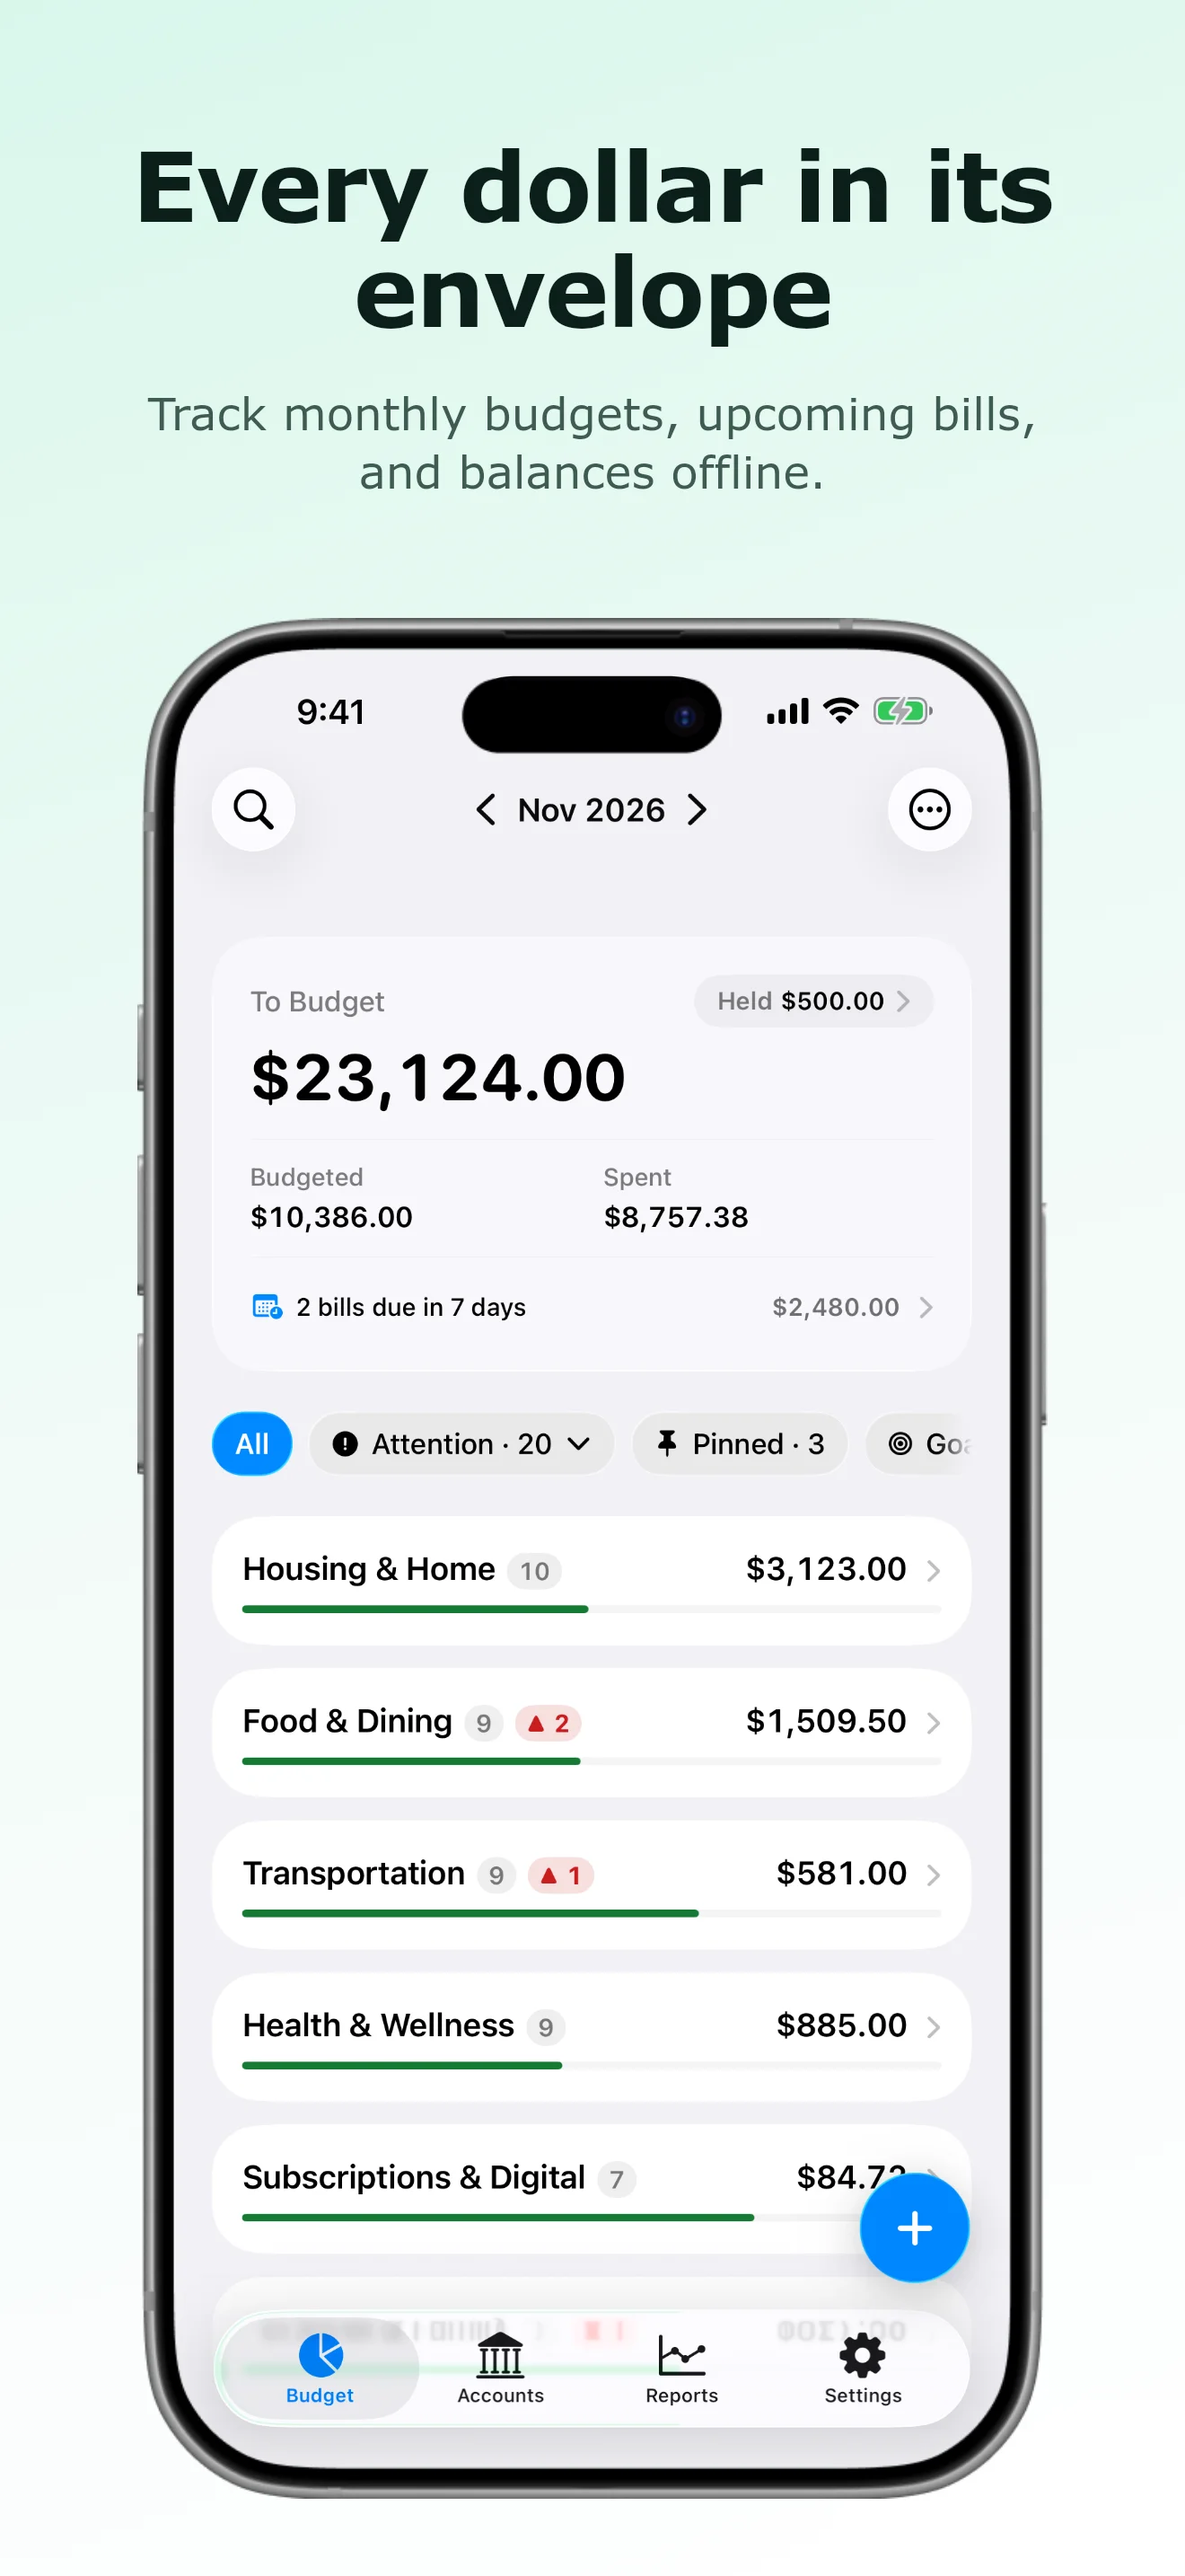
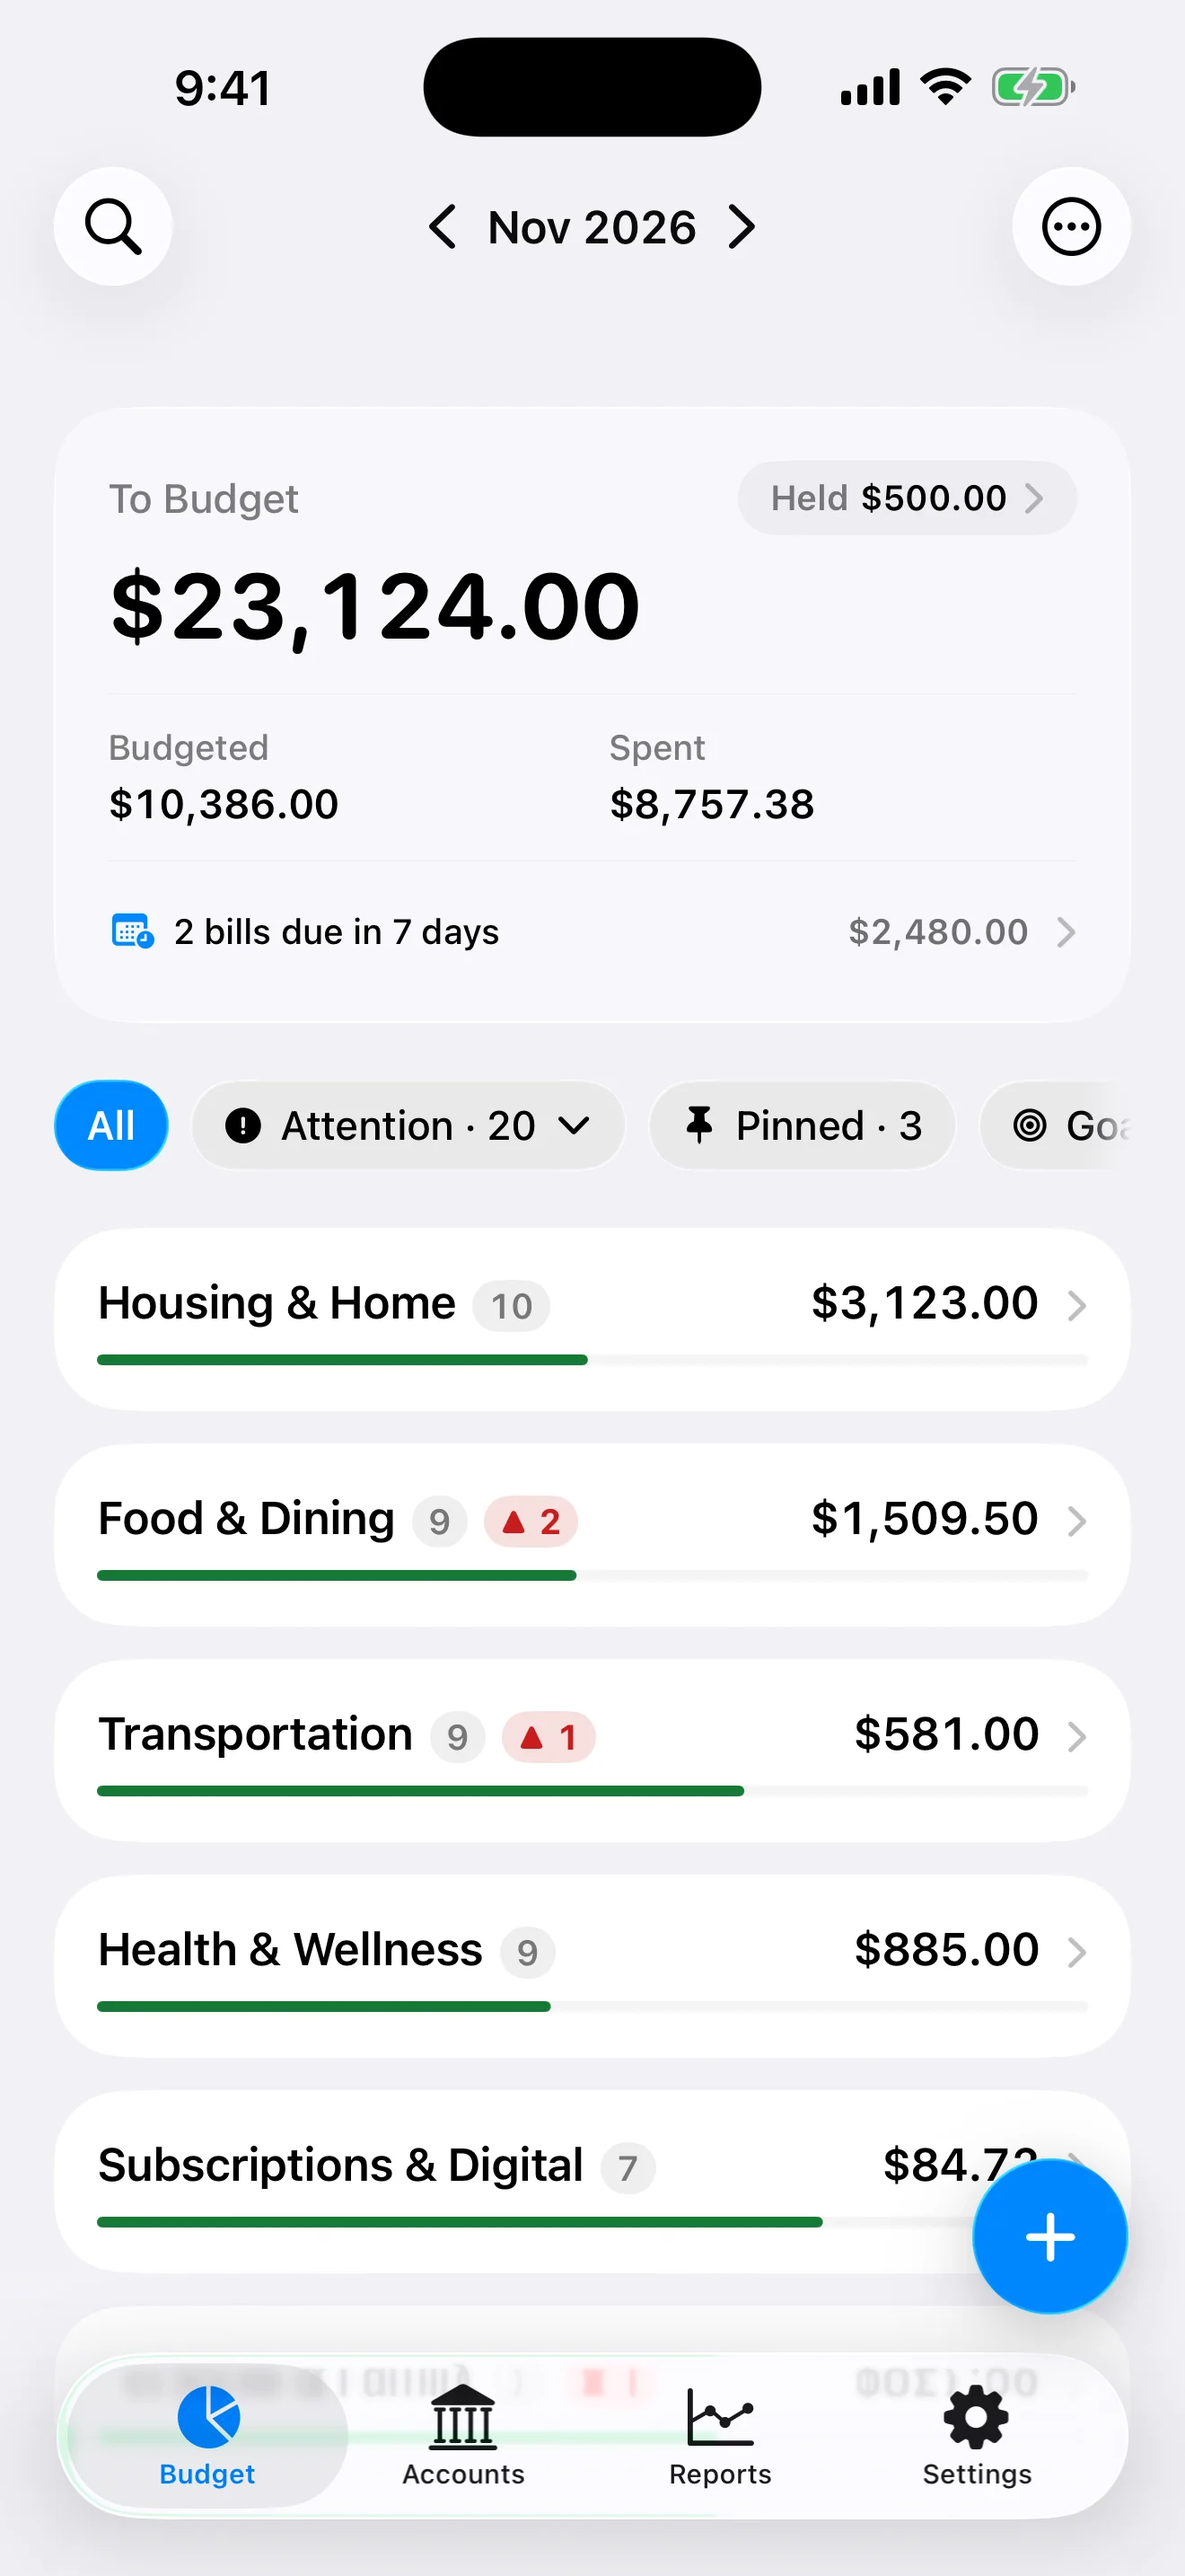
fix: use unframed raw screenshots, eager hero loading, and placeholder CF IDs

diff --git a/src/pages/LandingPage.tsx b/src/pages/LandingPage.tsx
@@ -28,6 +28,7 @@ interface PhoneShot {
 
 interface IPhoneFrameProps extends PhoneShot {
   className?: string;
+  eager?: boolean;
 }
 
 const IPhoneFrame: React.FC<IPhoneFrameProps> = ({
@@ -35,6 +36,7 @@ const IPhoneFrame: React.FC<IPhoneFrameProps> = ({
   alt,
   label,
   className = '',
+  eager = false,
 }) => (
   <figure className={`flex flex-col items-center ${className}`}>
     <div className="w-full overflow-hidden rounded-[2.25rem] bg-[#161a24] p-2 shadow-xl ring-1 ring-black/15 dark:bg-[#080d0b] dark:ring-white/15 sm:rounded-[2.5rem] sm:p-2.5">
@@ -44,7 +46,8 @@ const IPhoneFrame: React.FC<IPhoneFrameProps> = ({
           alt={alt}
           width={1320}
           height={2868}
-          loading="lazy"
+          loading={eager ? 'eager' : 'lazy'}
+          fetchPriority={eager ? 'high' : undefined}
           decoding="async"
           className="block h-full w-full object-cover"
         />
@@ -142,7 +145,7 @@ const CHAPTERS = [
       {
         expectedFile: '03-receipt-ocr.webp',
         alt: 'Envelope Companion All Accounts ledger showing split transaction, #tax-deductible tag, and searchable transaction filters',
-        label: 'Receipt OCR',
+        label: 'Split Transactions & Tags',
       },
       {
         expectedFile: '04-accounts.webp',
@@ -335,8 +338,8 @@ export const LandingPage: React.FC<LandingPageProps> = ({ onNavigate }) => {
 
           <div className="lg:col-span-6">
             <div className="mx-auto grid max-w-md grid-cols-2 items-start gap-4 sm:max-w-lg sm:gap-6">
-              <IPhoneFrame {...HERO_SHOTS[0]} />
-              <IPhoneFrame {...HERO_SHOTS[1]} className="mt-6 sm:mt-8" />
+              <IPhoneFrame {...HERO_SHOTS[0]} eager />
+              <IPhoneFrame {...HERO_SHOTS[1]} eager className="mt-6 sm:mt-8" />
             </div>
           </div>
         </div>

diff --git a/README.md b/README.md
@@ -12,7 +12,7 @@ npm run build
 
 ## Regenerating App Store Screenshots
 
-Screenshots are captured from the Release iOS Simulator build in Demo Mode (`-demoPreset large100`) using `goldie` and `.argent/flows/*.yaml`, then converted to `.webp` for `public/screenshots/`:
+Screenshots are captured from the Release iOS Simulator build in Demo Mode (`-demoPreset large100`) using `goldie` and `.argent/flows/*.yaml`. The landing site converts the **unframed raw captures** (`out/raw/iphone-6.9/*.png`) to `.webp` for `public/screenshots/` so `IPhoneFrame` renders the full-bleed app UI inside a single device frame:
 
 ```bash
 # 1. Build the Release simulator app from the iOS repo
@@ -24,25 +24,27 @@ xcodebuild -project ActualCompanion.xcodeproj \
   -derivedDataPath /tmp/bc-derived-data \
   CODE_SIGNING_ALLOWED=NO CODE_SIGNING_REQUIRED=NO build
 
-# 2. Verify toolchain & simulators, then capture, frame, and verify
+# 2. Verify toolchain & simulators, then capture raw screenshots, frame App Store posters, and verify
 goldie doctor
 goldie capture
 goldie frame
 goldie verify
 
-# 3. Convert framed iPhone 6.9" PNGs to WebP in public/screenshots/
-cwebp -quiet -q 85 out/screenshots/iphone-6.9/en-US/01-01-budget.png -o public/screenshots/01-budget.webp
-cwebp -quiet -q 85 out/screenshots/iphone-6.9/en-US/05-05-quick-log.png -o public/screenshots/02-quick-entry.webp
-cwebp -quiet -q 85 out/screenshots/iphone-6.9/en-US/03-03-transactions.png -o public/screenshots/03-receipt-ocr.webp
-cwebp -quiet -q 85 out/screenshots/iphone-6.9/en-US/02-02-accounts.png -o public/screenshots/04-accounts.webp
-cwebp -quiet -q 85 out/screenshots/iphone-6.9/en-US/04-04-reports.png -o public/screenshots/05-reports.webp
-cwebp -quiet -q 85 out/screenshots/iphone-6.9/en-US/03-03-transactions.png -o public/screenshots/06-search.webp
-cwebp -quiet -q 85 out/screenshots/iphone-6.9/en-US/07-07-settings.png -o public/screenshots/07-settings.webp
+# 3. Convert unframed raw iPhone 6.9" PNGs to WebP in public/screenshots/
+cwebp -quiet -q 85 out/raw/iphone-6.9/01-budget.png -o public/screenshots/01-budget.webp
+cwebp -quiet -q 85 out/raw/iphone-6.9/05-quick-log.png -o public/screenshots/02-quick-entry.webp
+cwebp -quiet -q 85 out/raw/iphone-6.9/03-transactions.png -o public/screenshots/03-receipt-ocr.webp
+cwebp -quiet -q 85 out/raw/iphone-6.9/02-accounts.png -o public/screenshots/04-accounts.webp
+cwebp -quiet -q 85 out/raw/iphone-6.9/04-reports.png -o public/screenshots/05-reports.webp
+cwebp -quiet -q 85 out/raw/iphone-6.9/03-transactions.png -o public/screenshots/06-search.webp
+cwebp -quiet -q 85 out/raw/iphone-6.9/07-settings.png -o public/screenshots/07-settings.webp
 ```
 
 ## Deploy to Cloudflare
 
+Use the Cloudflare Account ID and Zone ID from the captain's records:
+
 ```bash
 npm run build
-CLOUDFLARE_ACCOUNT_ID=653f507ee5697b23ccd9afb9a000b267 CLOUDFLARE_ZONE_ID=8a6055ebc3ceefad42961a9de2683a75 cf deploy dist
+CLOUDFLARE_ACCOUNT_ID=YOUR_ACCOUNT_ID CLOUDFLARE_ZONE_ID=YOUR_ZONE_ID cf deploy dist
 ```
